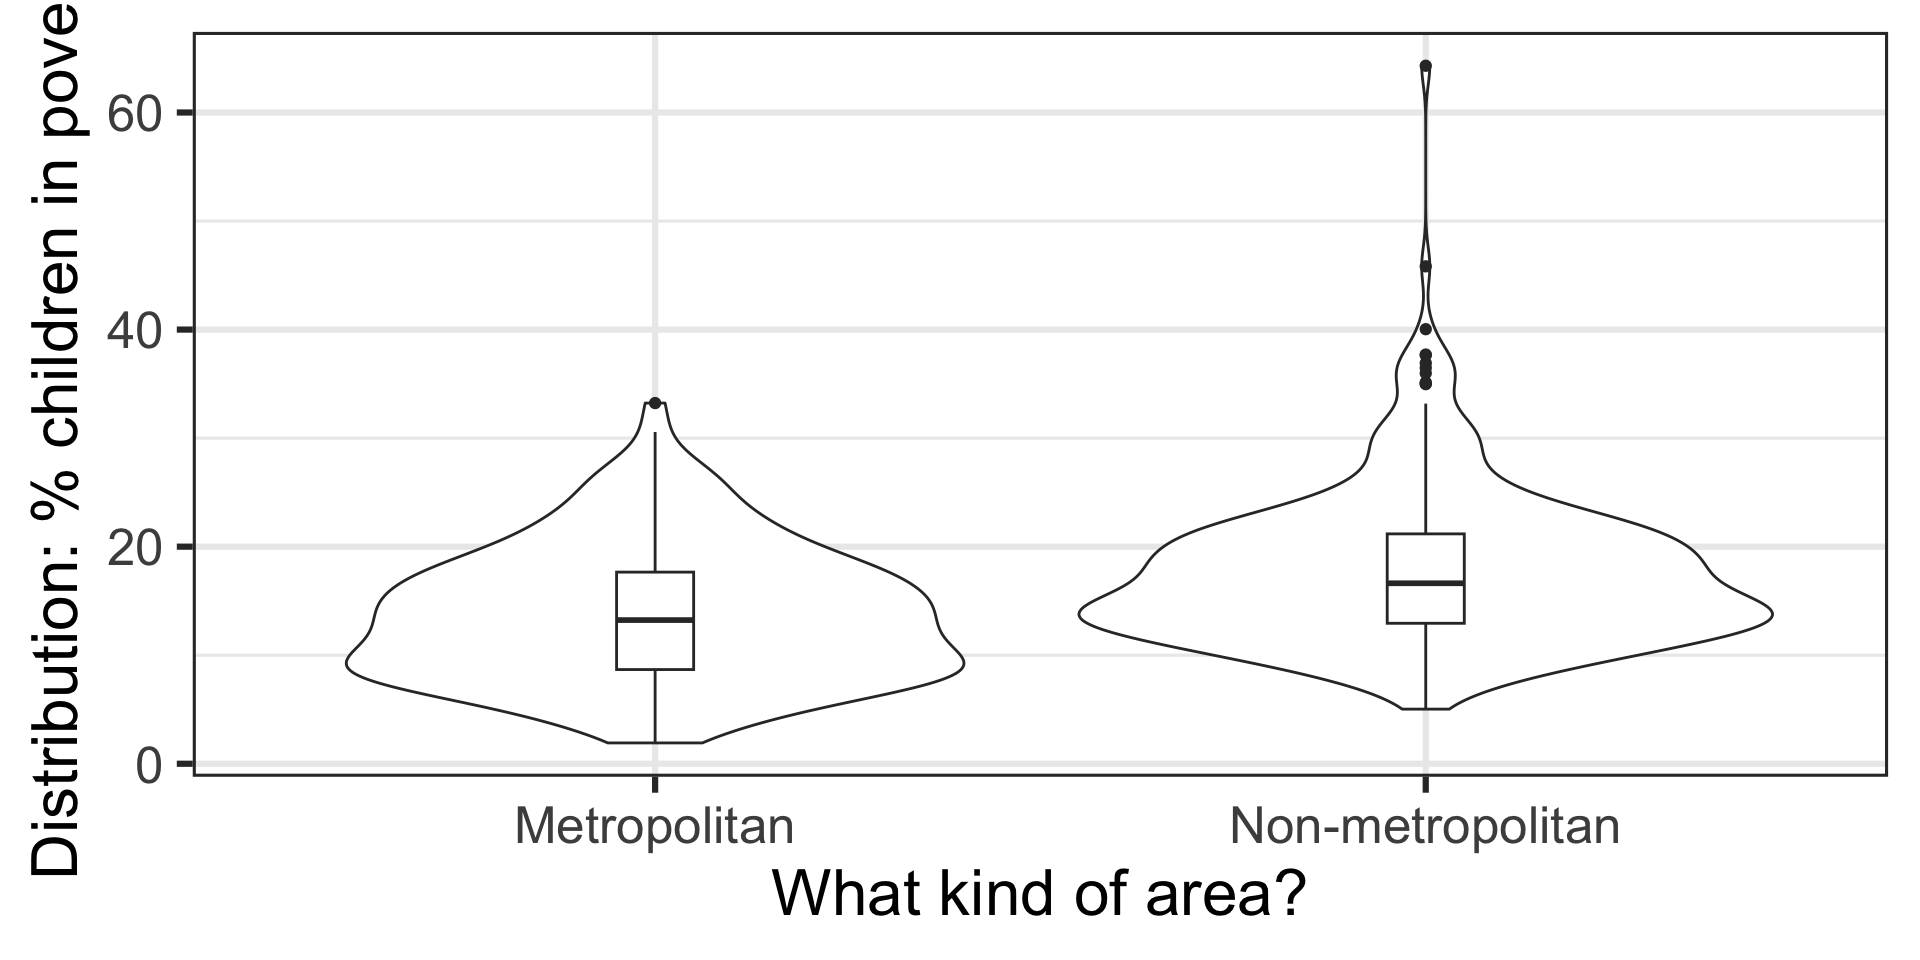
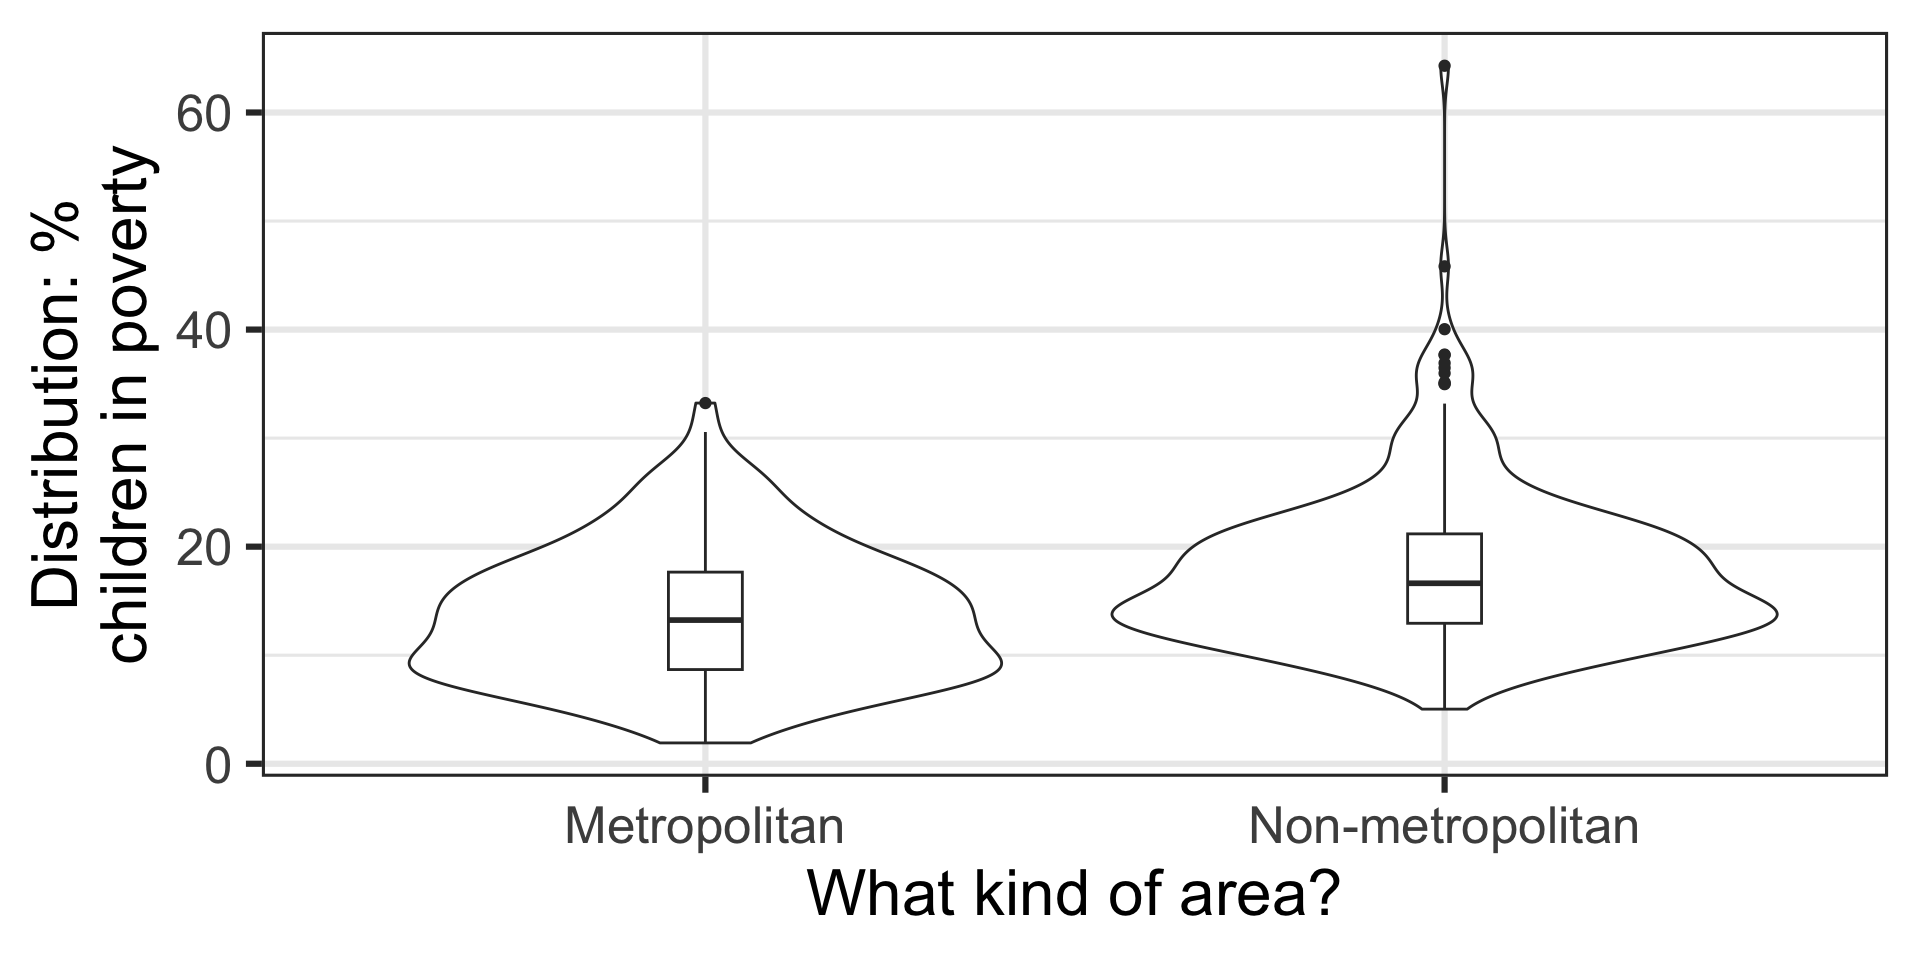
updates

diff --git a/fall_2024/slides/session2_ggplot2refresher/session2_ggplot2refresher.html b/fall_2024/slides/session2_ggplot2refresher/session2_ggplot2refresher.html
@@ -417,12 +417,11 @@ Prof.&nbsp;Rebecca A. Johnson
 <h2>Overview</h2>
 <ul>
 <li><p><strong>Prepping data to plot</strong></p></li>
-<li><p><strong>Four types of EDA</strong><sup>1</sup></p>
+<li><p><strong>Three types of EDA</strong><sup>1</sup></p>
 <ul>
 <li>Comparisons</li>
 <li>Distributions / Relationships</li>
 <li>Compositions</li>
-<li>Maps / Networks / Hierarchies</li>
 </ul></li>
 </ul>
 <aside><ol class="aside-footnotes"><li id="fn1"><p>Acknowledgements to Prof Pickens’ Data visualization for exploratory data analysis lecture for this framework!</p></li></ol></aside></section></section>
@@ -435,7 +434,7 @@ Prof.&nbsp;Rebecca A. Johnson
 <h2>Where we are</h2>
 <ul>
 <li><p><strong>Prepping data to plot</strong></p></li>
-<li><p><span style="color:gray;">Four types of EDA</span></p></li>
+<li><p><span style="color:gray;">Three types of EDA</span></p></li>
 </ul>
 </section>
 <section id="example-data" class="slide level2">
@@ -698,12 +697,12 @@ Prof.&nbsp;Rebecca A. Johnson
 <section id="alluvial-charts-parallel-sets" class="slide level2">
 <h2>Alluvial charts (Parallel sets)</h2>
 
-<img data-src="images/alluvial.png" class="r-stretch quarto-figure-center"><p class="caption">Source: https://datavizproject.com/data-type/alluvial-diagram/</p></section>
+<img data-src="input/alluvial.png" class="r-stretch quarto-figure-center"><p class="caption">Source: https://datavizproject.com/data-type/alluvial-diagram/</p></section>
 <section id="sankey-diagrams" class="slide level2">
 <h2>Sankey diagrams</h2>
 <p>Flow diagram - width of the area is proportional to flow amount</p>
 
-<img data-src="images/sankey.png" class="r-stretch quarto-figure-center"><p class="caption">Source: https://datavizproject.com/data-type/sankey-diagram/</p></section>
+<img data-src="input/sankey.png" class="r-stretch quarto-figure-center"><p class="caption">Source: https://datavizproject.com/data-type/sankey-diagram/</p></section>
 <section id="violin-plots" class="slide level2">
 <h2>Violin plots</h2>
 
@@ -809,7 +808,7 @@ Prof.&nbsp;Rebecca A. Johnson
 <span id="cb21-5"><a href=""></a>       <span class="fu">aes</span>(<span class="at">x =</span> metro_cat, <span class="at">y =</span> m)) <span class="sc">+</span></span>
 <span id="cb21-6"><a href=""></a>  <span class="fu">geom_bar</span>(<span class="at">stat =</span> <span class="st">"identity"</span>) <span class="sc">+</span></span>
 <span id="cb21-7"><a href=""></a>  <span class="fu">xlab</span>(<span class="st">"What kind of area?"</span>) <span class="sc">+</span></span>
-<span id="cb21-8"><a href=""></a>  <span class="fu">ylab</span>(<span class="st">"Distribution: % children in poverty"</span>) <span class="sc">+</span></span>
+<span id="cb21-8"><a href=""></a>  <span class="fu">ylab</span>(<span class="st">"Distribution: % </span><span class="sc">\n</span><span class="st">children in poverty"</span>) <span class="sc">+</span></span>
 <span id="cb21-9"><a href=""></a>  <span class="fu">theme_bw</span>() </span></code><button title="Copy to Clipboard" class="code-copy-button"><i class="bi"></i></button></pre></div>
 </div>
 
@@ -829,7 +828,7 @@ Prof.&nbsp;Rebecca A. Johnson
 <span id="cb22-2"><a href=""></a>       <span class="fu">aes</span>(<span class="at">x =</span> metro_cat, <span class="at">y =</span> percchildbelowpovert)) <span class="sc">+</span></span>
 <span id="cb22-3"><a href=""></a>  <span class="fu">geom_violin</span>() <span class="sc">+</span></span>
 <span id="cb22-4"><a href=""></a>  <span class="fu">xlab</span>(<span class="st">"What kind of area?"</span>) <span class="sc">+</span></span>
-<span id="cb22-5"><a href=""></a>  <span class="fu">ylab</span>(<span class="st">"Distribution: % children in poverty"</span>) <span class="sc">+</span></span>
+<span id="cb22-5"><a href=""></a>  <span class="fu">ylab</span>(<span class="st">"Distribution: %</span><span class="sc">\n</span><span class="st">children in poverty"</span>) <span class="sc">+</span></span>
 <span id="cb22-6"><a href=""></a>  <span class="fu">theme_bw</span>(<span class="at">base_size =</span> <span class="dv">24</span>) </span></code><button title="Copy to Clipboard" class="code-copy-button"><i class="bi"></i></button></pre></div>
 </div>
 
@@ -850,7 +849,7 @@ Prof.&nbsp;Rebecca A. Johnson
 <span id="cb23-3"><a href=""></a>  <span class="fu">geom_violin</span>() <span class="sc">+</span></span>
 <span id="cb23-4"><a href=""></a>  <span class="fu">geom_boxplot</span>(<span class="at">width=</span><span class="fl">0.1</span>) <span class="sc">+</span></span>
 <span id="cb23-5"><a href=""></a>  <span class="fu">xlab</span>(<span class="st">"What kind of area?"</span>) <span class="sc">+</span></span>
-<span id="cb23-6"><a href=""></a>  <span class="fu">ylab</span>(<span class="st">"Distribution: % children in poverty"</span>) <span class="sc">+</span></span>
+<span id="cb23-6"><a href=""></a>  <span class="fu">ylab</span>(<span class="st">"Distribution: %</span><span class="sc">\n</span><span class="st">children in poverty"</span>) <span class="sc">+</span></span>
 <span id="cb23-7"><a href=""></a>  <span class="fu">theme_bw</span>(<span class="at">base_size =</span> <span class="dv">24</span>) </span></code><button title="Copy to Clipboard" class="code-copy-button"><i class="bi"></i></button></pre></div>
 </div>
 
@@ -894,17 +893,67 @@ Prof.&nbsp;Rebecca A. Johnson
 </div>
 </div></section><section id="wrapping-up-and-wednesdays-lab" class="slide level2">
 <h2>Wrapping up and Wednesday’s lab</h2>
-<p>Add</p>
+<p>What we covered:</p>
+<ul>
+<li><p><strong>Prepping data to plot</strong></p></li>
+<li><p><strong>Three types of EDA:</strong> examples of all three; <code>ggplot2</code> example of distributions</p>
+<ul>
+<li>Comparisons</li>
+<li>Distributions / Relationships</li>
+<li>Compositions</li>
+</ul></li>
+<li><p><strong>Wednesday’s lab</strong>: <code>ggplot2</code> practice of all three types</p></li>
+</ul>
 </section>
-<section id="preview-of-next-week" class="slide level2">
-<h2>Preview of next week</h2>
-<p>Add example of automating the statistics</p>
+<section id="preview-of-next-week-automation" class="slide level2">
+<h2>Preview of next week: automation</h2>
+<div class="cell">
+<div class="sourceCode cell-code" id="cb25"><pre class="sourceCode numberSource r number-lines code-with-copy"><code class="sourceCode r"><span id="cb25-1"><a href=""></a>all_perc <span class="ot">&lt;-</span> <span class="fu">grep</span>(<span class="st">"^perc"</span>, <span class="fu">colnames</span>(midwest), <span class="at">value =</span> <span class="cn">TRUE</span>)</span>
+<span id="cb25-2"><a href=""></a>all_perc</span></code><button title="Copy to Clipboard" class="code-copy-button"><i class="bi"></i></button></pre></div>
+</div>
+
+</section>
+<section id="preview-of-next-week-automation-output" class="slide level2 output-location-slide"><h2>Preview of next week: automation</h2><div class="cell output-location-slide">
+<div class="cell-output cell-output-stdout">
+<pre><code> [1] "percwhite"            "percblack"            "percamerindan"       
+ [4] "percasian"            "percother"            "perchsd"             
+ [7] "percollege"           "percprof"             "percpovertyknown"    
+[10] "percbelowpoverty"     "percchildbelowpovert" "percadultpoverty"    
+[13] "percelderlypoverty"  </code></pre>
+</div>
+<div class="sourceCode cell-code" id="cb27"><pre class="sourceCode numberSource r number-lines code-with-copy"><code class="sourceCode r"><span id="cb27-1"><a href=""></a>plot_one_perc <span class="ot">&lt;-</span> <span class="cf">function</span>(input_data, x_category, y_outcome){</span>
+<span id="cb27-2"><a href=""></a>  <span class="do">## your code here </span></span>
+<span id="cb27-3"><a href=""></a>  </span>
+<span id="cb27-4"><a href=""></a>}</span></code><button title="Copy to Clipboard" class="code-copy-button"><i class="bi"></i></button></pre></div>
+</div></section><section id="preview-of-next-week-automation-1" class="slide level2">
+<h2>Preview of next week: automation</h2>
+<div class="cell">
+<div class="sourceCode cell-code" id="cb28"><pre class="sourceCode numberSource r number-lines code-with-copy"><code class="sourceCode r"><span id="cb28-1"><a href=""></a>input_data <span class="ot">&lt;-</span> midwest </span>
+<span id="cb28-2"><a href=""></a>x_category <span class="ot">&lt;-</span> <span class="st">"metro_cat"</span></span>
+<span id="cb28-3"><a href=""></a>y_outcome <span class="ot">&lt;-</span> <span class="fu">as.character</span>(all_perc[<span class="dv">1</span>])</span>
+<span id="cb28-4"><a href=""></a><span class="fu">ggplot</span>(input_data,</span>
+<span id="cb28-5"><a href=""></a>       <span class="fu">aes</span>(<span class="at">x =</span> <span class="sc">!!</span><span class="fu">sym</span>(x_category), <span class="at">y =</span> <span class="sc">!!</span><span class="fu">sym</span>(y_outcome))) <span class="sc">+</span></span>
+<span id="cb28-6"><a href=""></a>  <span class="fu">geom_violin</span>() <span class="sc">+</span></span>
+<span id="cb28-7"><a href=""></a>  <span class="fu">geom_boxplot</span>(<span class="at">width=</span><span class="fl">0.1</span>) <span class="sc">+</span></span>
+<span id="cb28-8"><a href=""></a>  <span class="fu">xlab</span>(<span class="st">"What kind of area?"</span>) <span class="sc">+</span></span>
+<span id="cb28-9"><a href=""></a>  <span class="fu">ylab</span>(<span class="fu">sprintf</span>(<span class="st">"Distribution: %s"</span>, y_outcome)) <span class="sc">+</span></span>
+<span id="cb28-10"><a href=""></a>  <span class="fu">theme_bw</span>(<span class="at">base_size =</span> <span class="dv">24</span>) </span></code><button title="Copy to Clipboard" class="code-copy-button"><i class="bi"></i></button></pre></div>
+</div>
+
 <div class="quarto-auto-generated-content">
 <div class="footer footer-default">
 
 </div>
 </div>
-</section></section>
+</section><section id="preview-of-next-week-automation-1-output" class="slide level2 output-location-slide"><h2>Preview of next week: automation</h2><div class="cell output-location-slide">
+<div class="cell-output-display">
+<div>
+<figure>
+<p><img data-src="session2_ggplot2refresher_files/figure-revealjs/unnamed-chunk-13-1.png" width="960"></p>
+</figure>
+</div>
+</div>
+</div></section></section>
 
     </div>
   </div>
